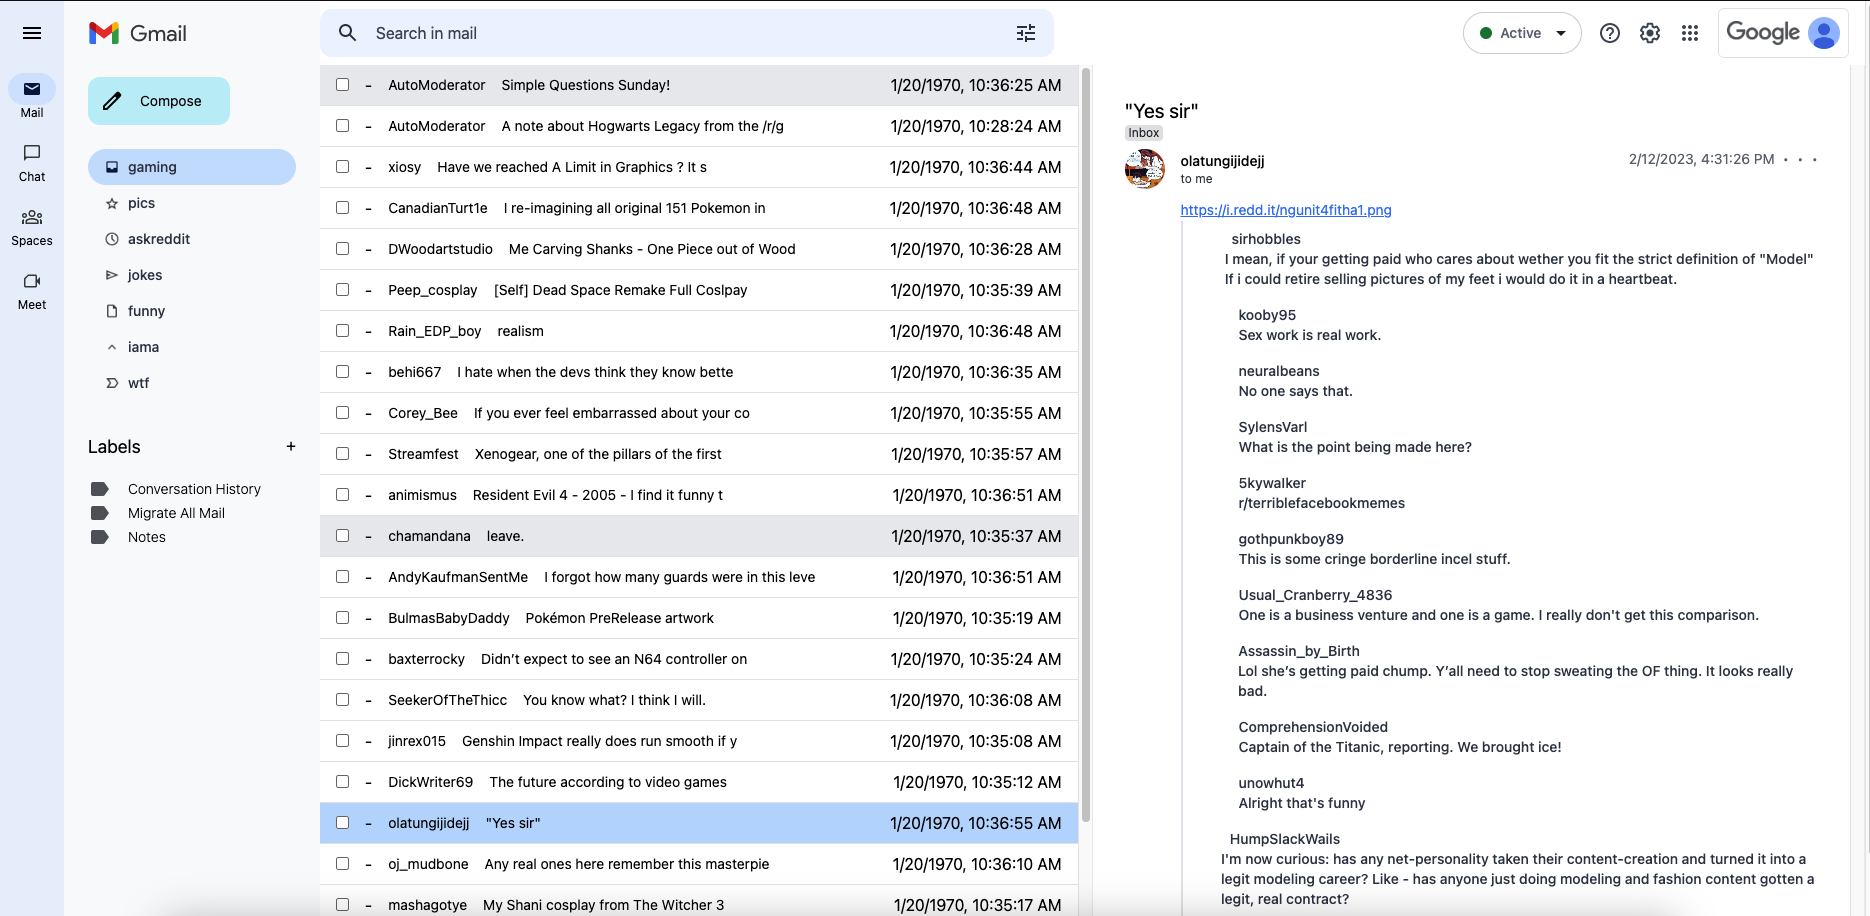
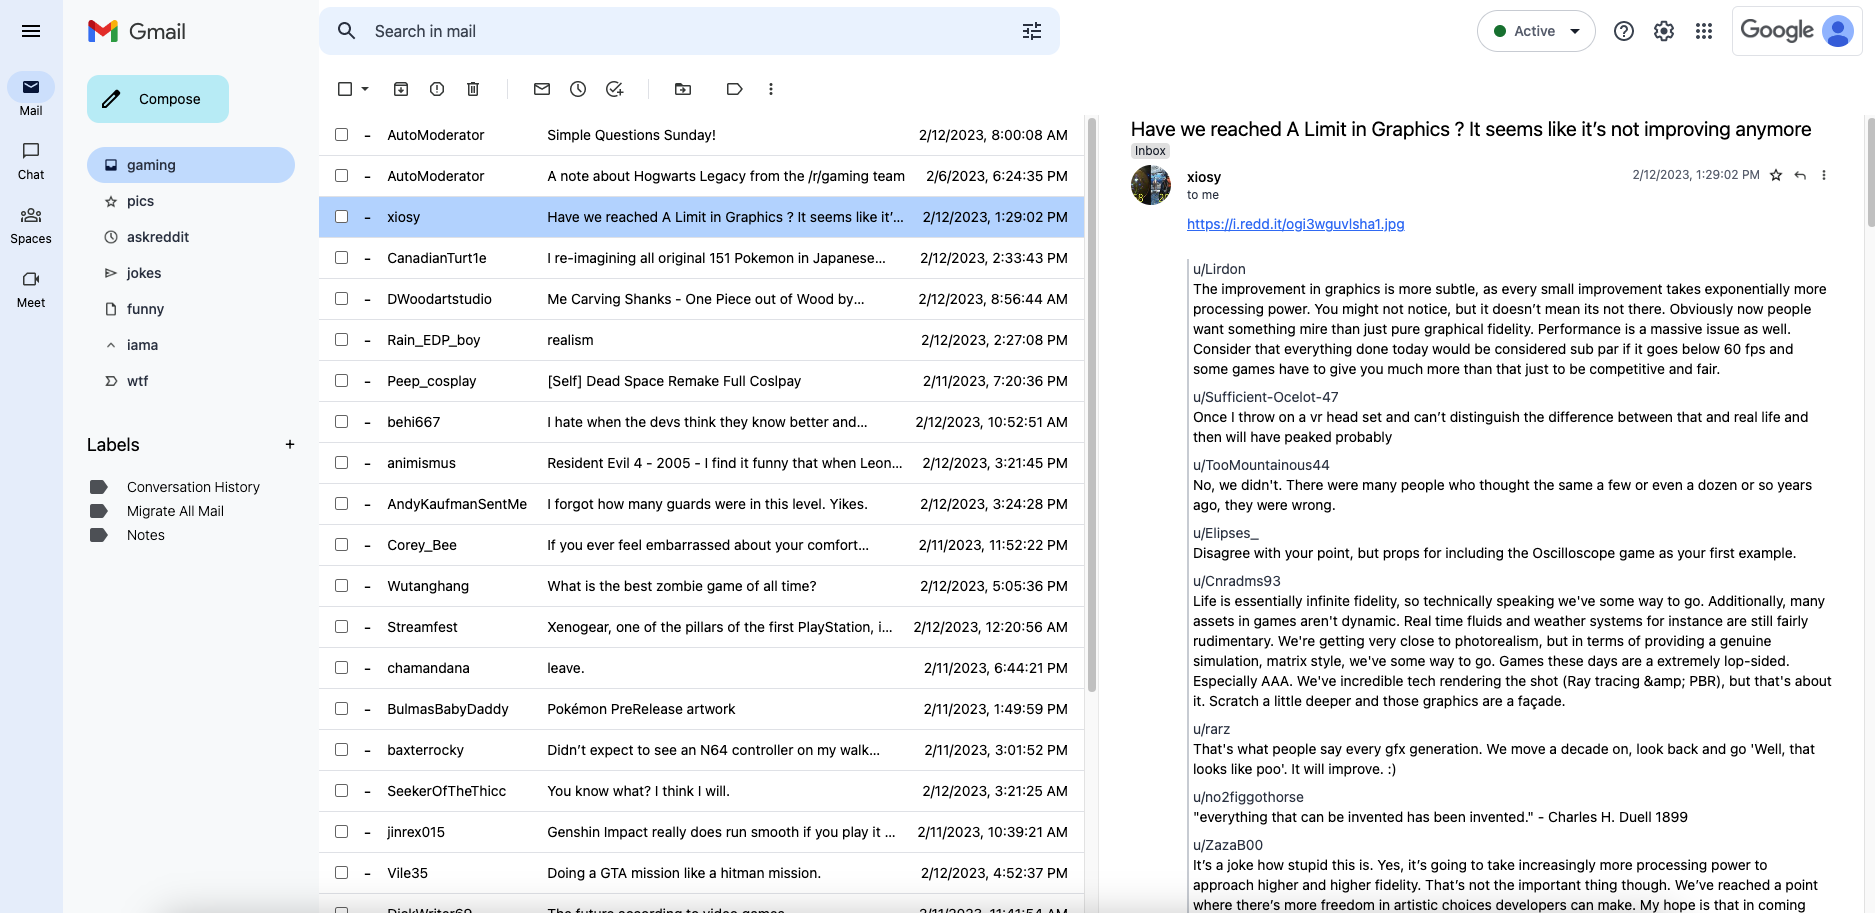
Fix some leftovers

diff --git a/index.html b/index.html
@@ -4,13 +4,11 @@
     <meta charset="UTF-8" />
     <meta http-equiv="X-UA-Compatible" content="IE=edge" />
     <meta name="viewport" content="width=device-width, initial-scale=1.0" />
-    <title>Gmail</title>
+    <title>Inbox - GMailKit</title>
+    <link rel="shortcut icon" href="./favicon.ico" type="image/x-icon" />
 
     <!-- BEGIN: Tailwind -->
-    <script src="https://cdn.tailwindcss.com"></script>
-    <script>
-      tailwind.config = {};
-    </script>
+    <script src="https://cdn.tailwindcss.com?plugins=aspect-ratio,line-clamp"></script>
     <!-- END: Tailwind -->
 
     <!-- BEGIN: Alpinejs -->
@@ -227,9 +225,9 @@
           </template>
           <!-- END: Sidebar -->
 
-          <div class="flex-1 h-screen flex flex-col">
+          <div class="flex-1 h-screen max-h-screen flex flex-col">
             <!-- BEGIN: Menu bar -->
-            <div class="w-full flex flex-row items-center pr-4">
+            <header class="w-full flex flex-row items-center pr-4">
               <div
                 class="w-[48%] h-12 px-4 border-0 rounded-xl bg-blue-100/50 my-2 flex items-center space-x-4"
               >
@@ -351,12 +349,103 @@
                   />
                 </a>
               </div>
+            </header>
+            <!-- BEGIN: Prelist actions -->
+            <div class="w-full flex flex-row items-center p-4">
+              <div>
+                <div
+                  class="w-5 h-5 bg-contain bg-no-repeat"
+                  style="
+                    background-image: url('//ssl.gstatic.com/ui/v1/icons/mail/gm3/1x/check_box_outline_blank_baseline_nv700_20dp.png');
+                  "
+                ></div>
+              </div>
+              <div class="pr-4">
+                <div
+                  class="w-5 h-5 bg-contain bg-no-repeat"
+                  style="
+                    background-image: url('//ssl.gstatic.com/ui/v1/icons/mail/gm3/1x/arrow_drop_down_baseline_nv700_20dp.png');
+                  "
+                ></div>
+              </div>
+              <div class="pr-4">
+                <div
+                  class="w-5 h-5 bg-contain bg-no-repeat"
+                  style="
+                    background-image: url('//ssl.gstatic.com/ui/v1/icons/mail/gm3/1x/archive_baseline_nv700_20dp.png');
+                  "
+                ></div>
+              </div>
+              <div class="pr-4">
+                <div
+                  class="w-5 h-5 bg-contain bg-no-repeat"
+                  style="
+                    background-image: url('//ssl.gstatic.com/ui/v1/icons/mail/gm3/1x/report_baseline_nv700_20dp.png');
+                  "
+                ></div>
+              </div>
+              <div class="pr-6 border-r border-gray-200">
+                <div
+                  class="w-5 h-5 bg-contain bg-no-repeat"
+                  style="
+                    background-image: url('//ssl.gstatic.com/ui/v1/icons/mail/gm3/1x/delete_baseline_nv700_20dp.png');
+                  "
+                ></div>
+              </div>
+              <div class="pl-6 pr-4">
+                <div
+                  class="w-5 h-5 bg-contain bg-no-repeat"
+                  style="
+                    background-image: url('//ssl.gstatic.com/ui/v1/icons/mail/gm3/1x/mail_baseline_nv700_20dp.png');
+                  "
+                ></div>
+              </div>
+              <div class="pr-4">
+                <div
+                  class="w-5 h-5 bg-contain bg-no-repeat"
+                  style="
+                    background-image: url('//ssl.gstatic.com/ui/v1/icons/mail/gm3/1x/schedule_baseline_nv700_20dp.png');
+                  "
+                ></div>
+              </div>
+              <div class="pr-6 border-r border-gray-200">
+                <div
+                  class="w-5 h-5 bg-contain bg-no-repeat"
+                  style="
+                    background-image: url('//ssl.gstatic.com/ui/v1/icons/mail/gm3/1x/add_task_baseline_nv700_20dp.png');
+                  "
+                ></div>
+              </div>
+              <div class="pl-6 pr-4">
+                <div
+                  class="w-5 h-5 bg-contain bg-no-repeat"
+                  style="
+                    background-image: url('//ssl.gstatic.com/ui/v1/icons/mail/gm3/1x/drive_file_move_outline_baseline_nv700_20dp.png');
+                  "
+                ></div>
+              </div>
+              <div class="pl-4">
+                <div
+                  class="w-5 h-5 bg-contain bg-no-repeat"
+                  style="
+                    background-image: url('//ssl.gstatic.com/ui/v1/icons/mail/gm3/1x/label_baseline_nv700_20dp.png');
+                  "
+                ></div>
+              </div>
+              <div class="pl-4">
+                <div
+                  class="w-5 h-5 bg-contain bg-no-repeat"
+                  style="
+                    background-image: url('//ssl.gstatic.com/ui/v1/icons/mail/gm3/1x/more_vert_baseline_nv700_20dp.png');
+                  "
+                ></div>
+              </div>
             </div>
-            <div class="w-full flex flex-row items-center"></div>
+            <!-- END: Prelist actions -->
             <!-- END: Menu bar -->
-            <div class="flex flex-row flex-1">
+            <div class="flex flex-row flex-1 overflow-y-auto">
               <!-- BEGIN: List posts -->
-              <div class="flex-1 overflow-y-scroll h-screen">
+              <div class="h-full max–h-full flex-1 overflow-y-scroll">
                 <template x-for="item in subredditItems">
                   <div
                     @click="fetchPost(item.data)"
@@ -367,23 +456,24 @@
                       <input type="checkbox" />
                     </div>
                     <div>-</div>
-                    <div class="min-w-64 max-w-64">
-                      <div class="w-42 max-w-42">
+                    <div>
+                      <div class="w-36 max-w-36">
                         <p
-                          class="w-42 min-w-42 max-w-42 truncate text-sm"
+                          class="line-clamp-1 text-sm"
                           x-text="item.data.author"
                         ></p>
                       </div>
                     </div>
                     <div class="flex-1">
                       <p
-                        class="max-w-32 text-ellipsis overflow-x-clip text-sm"
-                        x-text="item.data.title.slice(0, 42)"
+                        class="line-clamp-1 text-sm"
+                        x-text="item.data.title"
                       ></p>
                     </div>
                     <div>
                       <p
-                        x-text="(new Date(item.data.created)).toLocaleString()"
+                        class="text-sm"
+                        x-text="(new Date(item.data.created * 1000)).toLocaleString()"
                       ></p>
                     </div>
                   </div>
@@ -392,7 +482,7 @@
               <!-- END: List posts -->
 
               <!-- BEGIN: Post content -->
-              <article class="flex-1 bg-white overflow-y-scroll h-screen">
+              <article class="flex-1 bg-white overflow-y-scroll">
                 <template x-if="postContent === null">
                   <div class="p-8">
                     <p>Welcome to GmailKit!</p>
@@ -403,7 +493,7 @@
                   </div>
                 </template>
                 <template x-if="postContent !== null">
-                  <div class="p-8">
+                  <div class="px-8">
                     <h1 class="text-xl" x-text="postContent.title"></h1>
                     <div>
                       <div
@@ -432,21 +522,38 @@
                       <div
                         class="flex-1 flex flex-col justify-between items-end py-2"
                       >
-                        <div class="flex flex-row space-x-2">
+                        <div class="flex flex-row items-center space-x-2">
                           <div>
                             <p
-                              class="text-gray-500 text-sm"
+                              class="text-gray-500 text-xs"
                               x-text="new Date(postContent.created_utc * 1000).toLocaleString()"
                             ></p>
                           </div>
                           <div>
-                            <p class="text-gray-500 text-sm">•</p>
+                            <div
+                              class="w-4 h-4 bg-no-repeat bg-contain"
+                              style="
+                                background-image: url('https://www.gstatic.com/images/icons/material/system_gm/1x/star_border_black_20dp.png');
+                              "
+                            ></div>
                           </div>
+
                           <div>
-                            <p class="text-gray-500 text-sm">•</p>
+                            <div
+                              class="w-4 h-4 bg-no-repeat bg-contain"
+                              style="
+                                background-image: url('//ssl.gstatic.com/ui/v1/icons/mail/gm3/1x/reply_baseline_nv700_20dp.png');
+                              "
+                            ></div>
                           </div>
+
                           <div>
-                            <p class="text-gray-500 text-sm">•</p>
+                            <div
+                              class="w-4 h-4 bg-no-repeat bg-contain"
+                              style="
+                                background-image: url('//ssl.gstatic.com/ui/v1/icons/mail/gm3/1x/more_vert_baseline_nv700_20dp.png');
+                              "
+                            ></div>
                           </div>
                         </div>
                         <div>
@@ -468,57 +575,22 @@
                       x-text="postContent.selftext"
                     ></p>
 
-                    <div
-                      class="ml-14 flex flex-col pl-2 border-l-2 border-gray-200"
-                    >
+                    <div class="ml-14 flex flex-col mt-6">
                       <template x-if="postContentComments.length === 0">
                         <p>No comments</p>
                       </template>
 
                       <!-- Print all comments -->
                       <template x-for="comment in postContentComments">
-                        <div
-                          class="flex flex-row space-x-2 items-center py-2"
-                          :class="{
-                        'pl-2': comment.data.depth === 0,
-                        'pl-4': comment.data.depth === 1,
-                        'pl-6': comment.data.depth === 2,
-                        'pl-8': comment.data.depth === 3,
-                        'pl-10': comment.data.depth === 4,
-                        'pl-12': comment.data.depth === 5,
-                        'pl-14': comment.data.depth === 6,
-                        'pl-16': comment.data.depth === 7,
-                        'pl-18': comment.data.depth === 8,
-                        'pl-20': comment.data.depth === 9,
-                        'pl-22': comment.data.depth === 10,
-                        'pl-24': comment.data.depth === 11,
-                        'pl-26': comment.data.depth === 12,
-                        'pl-28': comment.data.depth === 13,
-                        'pl-30': comment.data.depth === 14,
-                        'pl-32': comment.data.depth === 15,
-                        'pl-34': comment.data.depth === 16,
-                        'pl-36': comment.data.depth === 17,
-                        'pl-38': comment.data.depth === 18,
-                        'pl-40': comment.data.depth === 19,
-                        'pl-42': comment.data.depth >== 20,
-                      }"
-                        >
-                          <div class="w-4 h-4 rounded-full"></div>
-                          <div class="flex flex-col">
-                            <div class="flex flex-row space-x-2 items-center">
-                              <div class="w-4 h-4 rounded-full"></div>
-                              <div
-                                class="text-sm font-medium text-gray-700"
-                                x-text="comment.data.author"
-                              ></div>
-                            </div>
-                            <div class="flex flex-row space-x-2 items-center">
-                              <div class="w-4 h-4 rounded-full"></div>
-                              <div
-                                class="text-sm font-medium text-gray-700"
-                                x-text="comment.data.body"
-                              ></div>
-                            </div>
+                        <div class="border-l-2 border-gray-300 pb-2">
+                          <div
+                            :style="`padding-left: ${comment.data.depth * 0.5 + 0.25}rem`"
+                          >
+                            <h3
+                              class="text-sm text-gray-700"
+                              x-text="'u/' + comment.data.author"
+                            ></h3>
+                            <p class="text-sm" x-text="comment.data.body"></p>
                           </div>
                         </div>
                       </template>

diff --git a/README.md b/README.md
@@ -4,7 +4,7 @@
 
 ## What is it?
 
-GmailKit is a Reddit client that looks just like Gmail. It's been developed in 3 hours. There are inconsistencies and bugs. It's just a joke.
+GmailKit is a Reddit client that looks just like Gmail. It's been developed in 4 hours. There are inconsistencies and bugs. It's just a joke.
 
 It was inspired by [this github project](https://github.com/pcottle/MSOutlookit/)
 
